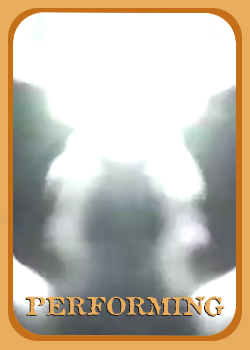
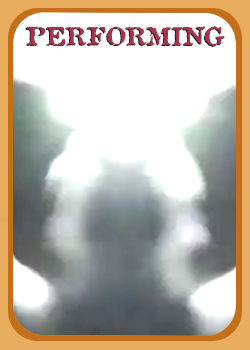
update perf card

Changed region(s): [[0.084, 0.0571, 0.896, 0.1429], [0.084, 0.8286, 0.896, 0.9143]]

diff --git a/index.md b/index.md
@@ -26,12 +26,18 @@ layout: default
 </a>
 
 </div>
-
-
-use #c46f19 (burnt orange)
-#e8ad5e (amber))
-
-
+<!--
+Page Colors
+background-color: #1B1B1B;
+text color: #8aa3bc;
+Card Colors
+#e8ad5e (amber)
+#c46f19 (burnt orange)
+card text: Attic Antique
+color: #a8334c
+drop: 1px L 1px D
+color: #1B1B1B
+-->
 
 ## Head 2
 More text
